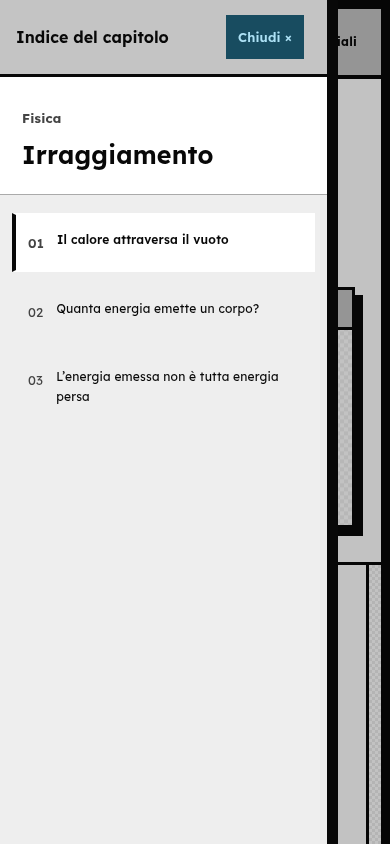
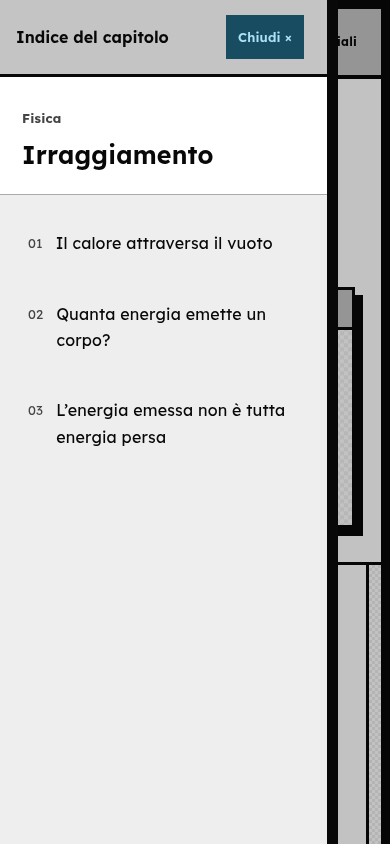
Uniforma stile e dimensione del pannello HTML nativo

diff --git a/lavorazione/tema_grafico/anteprima.html b/lavorazione/tema_grafico/anteprima.html
@@ -27,7 +27,7 @@ html{scroll-padding-top:110px}.topbar{position:sticky;top:0;z-index:20}
 body.index-open,body:has(.reader-index[open]){overflow:hidden}.article-section h2:focus{outline:none}.article-section h2:focus-visible{outline:2px solid #080808;outline-offset:5px}
 @media(max-width:560px){.topbar{flex-wrap:nowrap;gap:8px}.top-links{gap:10px}.index-toggle{font-size:13px;padding:7px 9px;gap:7px}.brand{font-size:21px;gap:8px}.app-icon{width:30px;height:30px}.top-links a{font-size:12px}.reader-sidebar{width:330px}.reader-index[open]>.index-toggle{left:min(226px,calc(100vw - 110px))}.sidebar-head h2{font-size:16px}.hero{padding-bottom:34px}}
 @media print{.topbar,.reader-index{display:none!important}body.index-open{overflow:visible}}
-</style></head><body><div class="page" id="inizio">
+.reader-index>.index-toggle{background:#eee;color:#080808;border:2px solid #080808;border-radius:0}.reader-index>.index-toggle:hover{background:#080808;color:#fff}.reader-sidebar .sidebar-nav a{font-size:16px;line-height:1.65}</style></head><body><div class="page" id="inizio">
 
 
 <header class="topbar"><a class="brand" href="#inizio"><span class="app-icon" aria-hidden="true">φ</span>Fisica</a><nav class="top-links" aria-label="Navigazione principale"><a href="https://rickymusu-bit.github.io/fisica/#indice">← Materiali</a><details class="reader-index" id="indice"><summary class="index-toggle"><span class="list-icon" aria-hidden="true"></span><span class="summary-open">Indice</span><span class="summary-close">Chiudi ×</span></summary><div class="sidebar-backdrop" aria-hidden="true"></div><aside class="reader-sidebar" aria-labelledby="reader-index-title">
